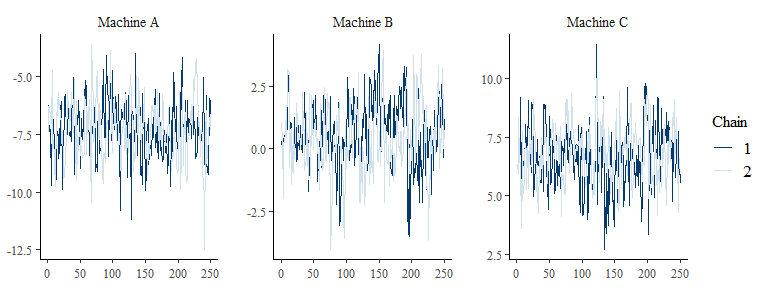
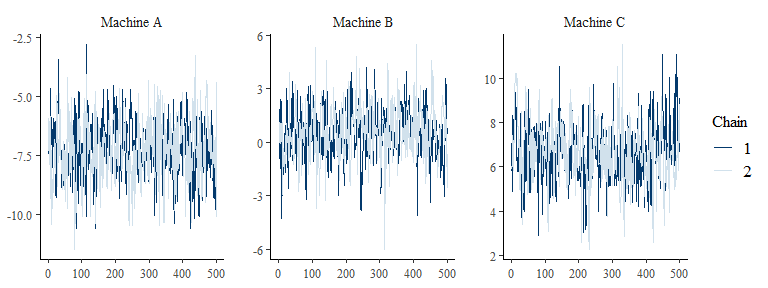
updated README

diff --git a/README.md b/README.md
@@ -11,8 +11,10 @@ status](https://travis-ci.org/bayesstuff/stanova.svg?branch=master)](https://tra
 
 The goal of `stanova` is to provide a more relevant and interpretable
 `summary` for Bayesian models with categorical covariates and possibly
-interactions. At the moment, it only provides wrappers for `rstanarm`
-via functions `stanova_lmer` and `stanova_glmer`.
+interactions. The core function is `stanova()` which requires specifying
+which `rstanarm` function should be called through argument `model_fun`
+(e.g., `model_fun = glmer` calls `stan_glmer` and allows fitting
+Bayesian mixed models).
 
 The issue `stanova` tries to address is that categorical variables with
 \(k\) levels need to be transformed into \(k-1\) numerical model
@@ -70,11 +72,13 @@ demonstrate the output.
 library(stanova)
 data("Machines", package = "MEMSS")
 
-m_machines <- stanova_lmer(score ~ Machine + (Machine|Worker),
-                           data=Machines, chains = 2, iter = 500)
+m_machines <- stanova(score ~ Machine + (Machine|Worker),
+                      model_fun = "glmer",
+                      data=Machines, chains = 2,
+                      warmup = 250, iter = 750)
 ```
 
-The `summary` method of a `staonva` objects first provides some general
+The `summary` method of a `stanova` objects first provides some general
 information about the fitted model (similar to `rstanarm`). It then
 provides statistics about the intercept. The next block provides
 estimates for each factor-level of the `Machine` factor. These estimates
@@ -87,26 +91,26 @@ grand mean).
 summary(m_machines)
 #> 
 #> Model Info:
-#>  function:     stanova_lmer
+#>  function:     stanova_glmer
 #>  family:       gaussian [identity]
 #>  formula:      score ~ Machine + (Machine | Worker)
 #>  algorithm:    sampling
 #>  chains:       2
-#>  sample:       500 (posterior sample size)
+#>  sample:       1000 (posterior sample size)
 #>  priors:       see help('prior_summary', package = 'rstanarm')
 #>  observations: 54
 #>  groups:       Worker (6)
 #> 
 #> Estimate Intercept:
-#>      Variable Mean MAD_SD   5%  50% 95% rhat ess_bulk ess_tail
-#> 1 (Intercept) 59.5      2 56.3 59.5  63 1.02      101      134
+#>      Variable Mean MAD_SD   5%  50%  95% rhat ess_bulk ess_tail
+#> 1 (Intercept) 59.5   1.79 55.8 59.5 62.9 1.01      361      486
 #> 
 #> 
 #> Estimates 'Machine' - difference from intercept:
 #>    Variable   Mean MAD_SD    5%    50%   95% rhat ess_bulk ess_tail
-#> 1 Machine A -7.270   1.22 -9.23 -7.347 -5.11 1.00      188      318
-#> 2 Machine B  0.518   1.33 -1.68  0.464  2.87 1.02      145      262
-#> 3 Machine C  6.751   1.18  4.62  6.746  9.00 1.00      240      241
+#> 1 Machine A -7.257   1.18 -9.35 -7.244 -5.13 1.01      378      525
+#> 2 Machine B  0.603   1.31 -1.73  0.545  2.91 1.00      378      523
+#> 3 Machine C  6.654   1.20  4.40  6.655  8.88 1.01      345      304
 ```
 
 If one is not interested in the differences from the factor levels, it
@@ -117,26 +121,26 @@ just needs to set `diff_intercept = FALSE`.
 summary(m_machines, diff_intercept = FALSE)
 #> 
 #> Model Info:
-#>  function:     stanova_lmer
+#>  function:     stanova_glmer
 #>  family:       gaussian [identity]
 #>  formula:      score ~ Machine + (Machine | Worker)
 #>  algorithm:    sampling
 #>  chains:       2
-#>  sample:       500 (posterior sample size)
+#>  sample:       1000 (posterior sample size)
 #>  priors:       see help('prior_summary', package = 'rstanarm')
 #>  observations: 54
 #>  groups:       Worker (6)
 #> 
 #> Estimate Intercept:
-#>      Variable Mean MAD_SD   5%  50% 95% rhat ess_bulk ess_tail
-#> 1 (Intercept) 59.5      2 56.3 59.5  63 1.02      101      134
+#>      Variable Mean MAD_SD   5%  50%  95% rhat ess_bulk ess_tail
+#> 1 (Intercept) 59.5   1.79 55.8 59.5 62.9 1.01      361      486
 #> 
 #> 
 #> Estimates 'Machine' - marginal means:
 #>    Variable Mean MAD_SD   5%  50%  95% rhat ess_bulk ess_tail
-#> 1 Machine A 52.3   1.88 48.9 52.3 55.5 1.01      127      196
-#> 2 Machine B 60.1   2.89 55.1 60.1 65.3 1.02      101      145
-#> 3 Machine C 66.3   2.00 62.8 66.3 69.8 1.01      156      143
+#> 1 Machine A 52.2   1.84 48.8 52.3 55.5 1.00      415      536
+#> 2 Machine B 60.1   2.71 55.0 60.1 65.0 1.01      363      455
+#> 3 Machine C 66.1   1.78 62.5 66.2 69.5 1.02      307      417
 ```
 
 The key to the output is the `stanova_samples()` function which takes a
@@ -150,14 +154,14 @@ the `return` argument.
 out_array <- stanova_samples(m_machines)
 str(out_array)
 #> List of 2
-#>  $ (Intercept): num [1:250, 1, 1:2] 58.4 58.8 60.4 61.3 59.6 ...
+#>  $ (Intercept): num [1:500, 1, 1:2] 63.5 59.7 58.6 59.1 58.4 ...
 #>   ..- attr(*, "dimnames")=List of 3
-#>   .. ..$ Iteration: chr [1:250] "1" "2" "3" "4" ...
+#>   .. ..$ Iteration: chr [1:500] "1" "2" "3" "4" ...
 #>   .. ..$ Parameter: chr "(Intercept)"
 #>   .. ..$ Chain    : chr [1:2] "chain:1" "chain:2"
-#>  $ Machine    : num [1:250, 1:3, 1:2] -6.25 -6.76 -7.36 -7.27 -7.28 ...
+#>  $ Machine    : num [1:500, 1:3, 1:2] -7.34 -7.39 -6.76 -7.75 -6.66 ...
 #>   ..- attr(*, "dimnames")=List of 3
-#>   .. ..$ Iteration: chr [1:250] "1" "2" "3" "4" ...
+#>   .. ..$ Iteration: chr [1:500] "1" "2" "3" "4" ...
 #>   .. ..$ Parameter: chr [1:3] "Machine A" "Machine B" "Machine C"
 #>   .. ..$ Chain    : chr [1:2] "chain:1" "chain:2"
 #>   ..- attr(*, "estimate")= chr "difference from intercept"
@@ -170,14 +174,14 @@ via the `dimension_chain` argument.
 out_array2 <- stanova_samples(m_machines, dimension_chain = 2)
 str(out_array2)
 #> List of 2
-#>  $ (Intercept): num [1:250, 1:2, 1] 58.4 58.8 60.4 61.3 59.6 ...
+#>  $ (Intercept): num [1:500, 1:2, 1] 63.5 59.7 58.6 59.1 58.4 ...
 #>   ..- attr(*, "dimnames")=List of 3
-#>   .. ..$ Iteration: chr [1:250] "1" "2" "3" "4" ...
+#>   .. ..$ Iteration: chr [1:500] "1" "2" "3" "4" ...
 #>   .. ..$ Chain    : chr [1:2] "chain:1" "chain:2"
 #>   .. ..$ Parameter: chr "(Intercept)"
-#>  $ Machine    : num [1:250, 1:2, 1:3] -6.25 -6.76 -7.36 -7.27 -7.28 ...
+#>  $ Machine    : num [1:500, 1:2, 1:3] -7.34 -7.39 -6.76 -7.75 -6.66 ...
 #>   ..- attr(*, "dimnames")=List of 3
-#>   .. ..$ Iteration: chr [1:250] "1" "2" "3" "4" ...
+#>   .. ..$ Iteration: chr [1:500] "1" "2" "3" "4" ...
 #>   .. ..$ Chain    : chr [1:2] "chain:1" "chain:2"
 #>   .. ..$ Parameter: chr [1:3] "Machine A" "Machine B" "Machine C"
 #>   ..- attr(*, "estimate")= chr "difference from intercept"
@@ -196,5 +200,4 @@ bayesplot::mcmc_trace(out_array2$Machine)
 
 Rouder, J. N., Morey, R. D., Speckman, P. L., & Province, J. M. (2012).
 Default Bayes factors for ANOVA designs. Journal of Mathematical
-Psychology, 56(5), 356â€“374.
-<https://doi.org/10.1016/j.jmp.2012.08.001>
+Psychology, 56(5), 356-374. <https://doi.org/10.1016/j.jmp.2012.08.001>
